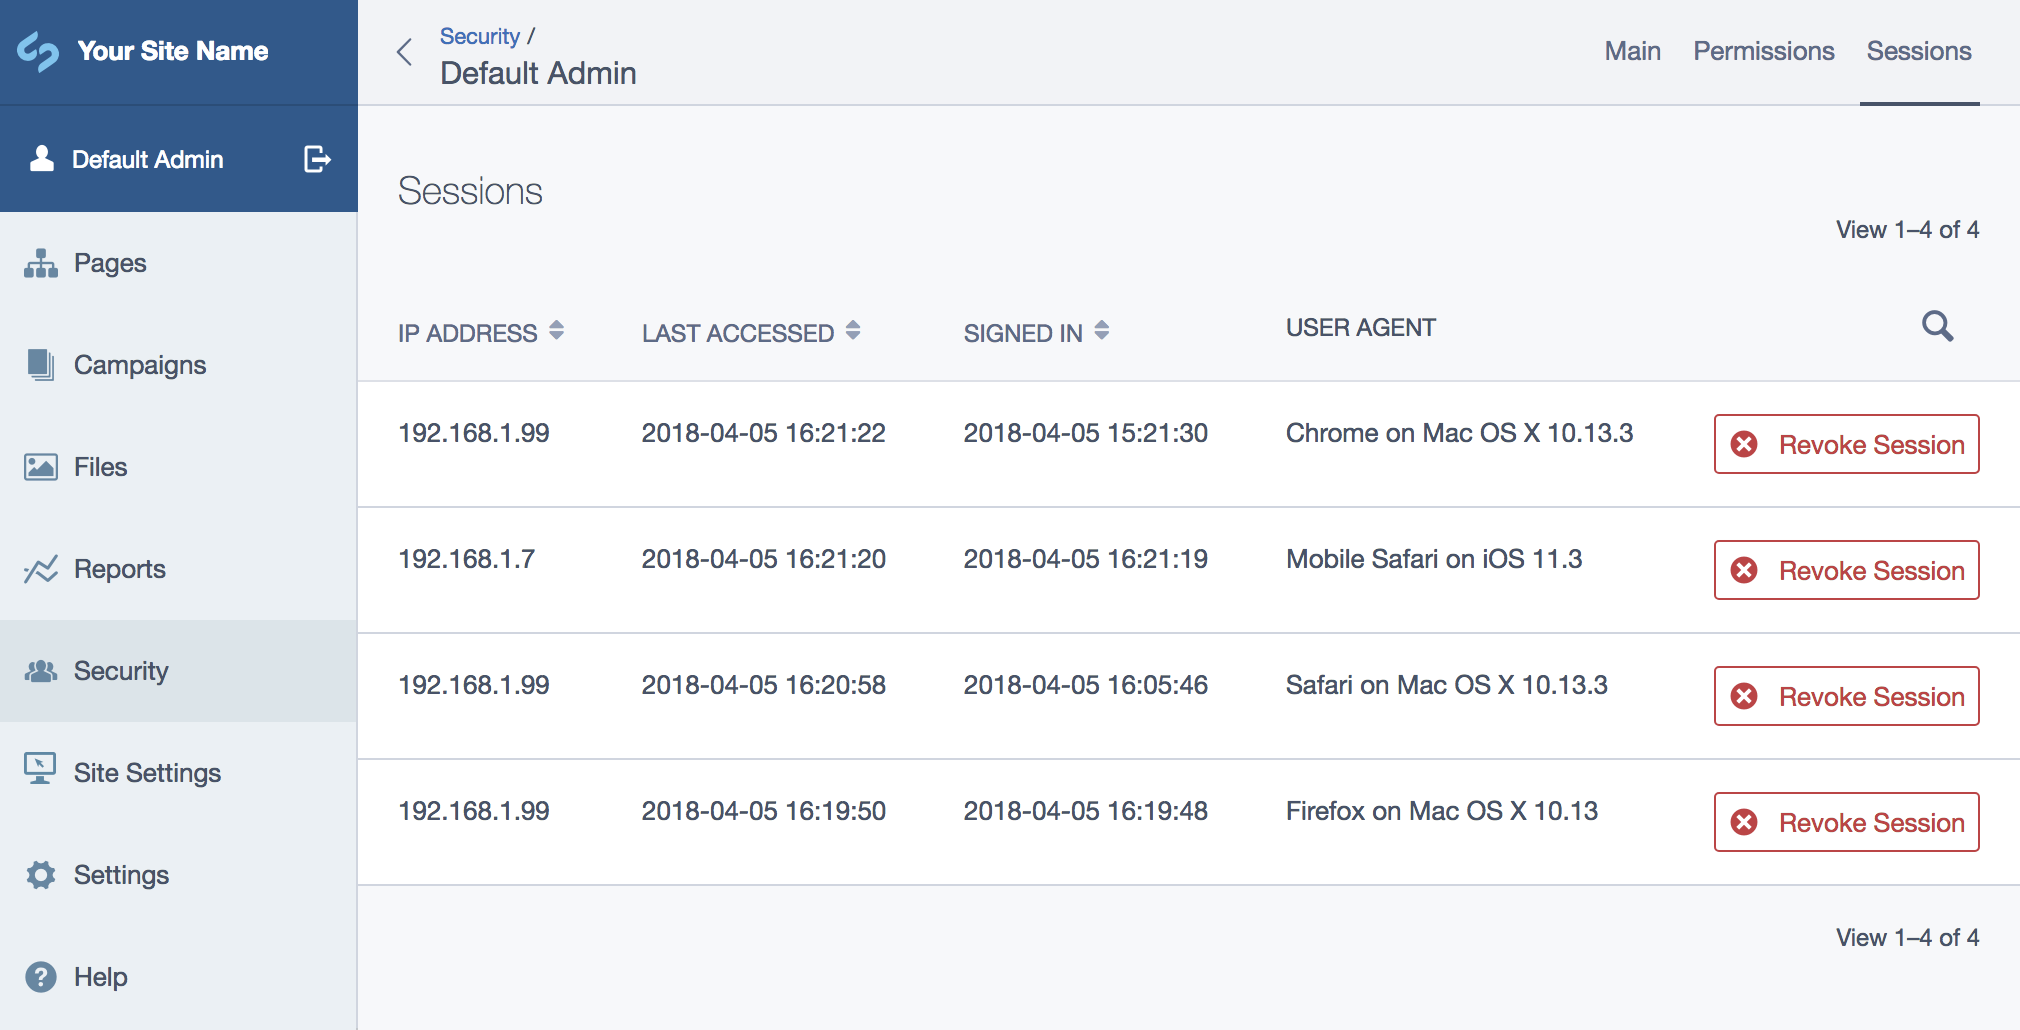
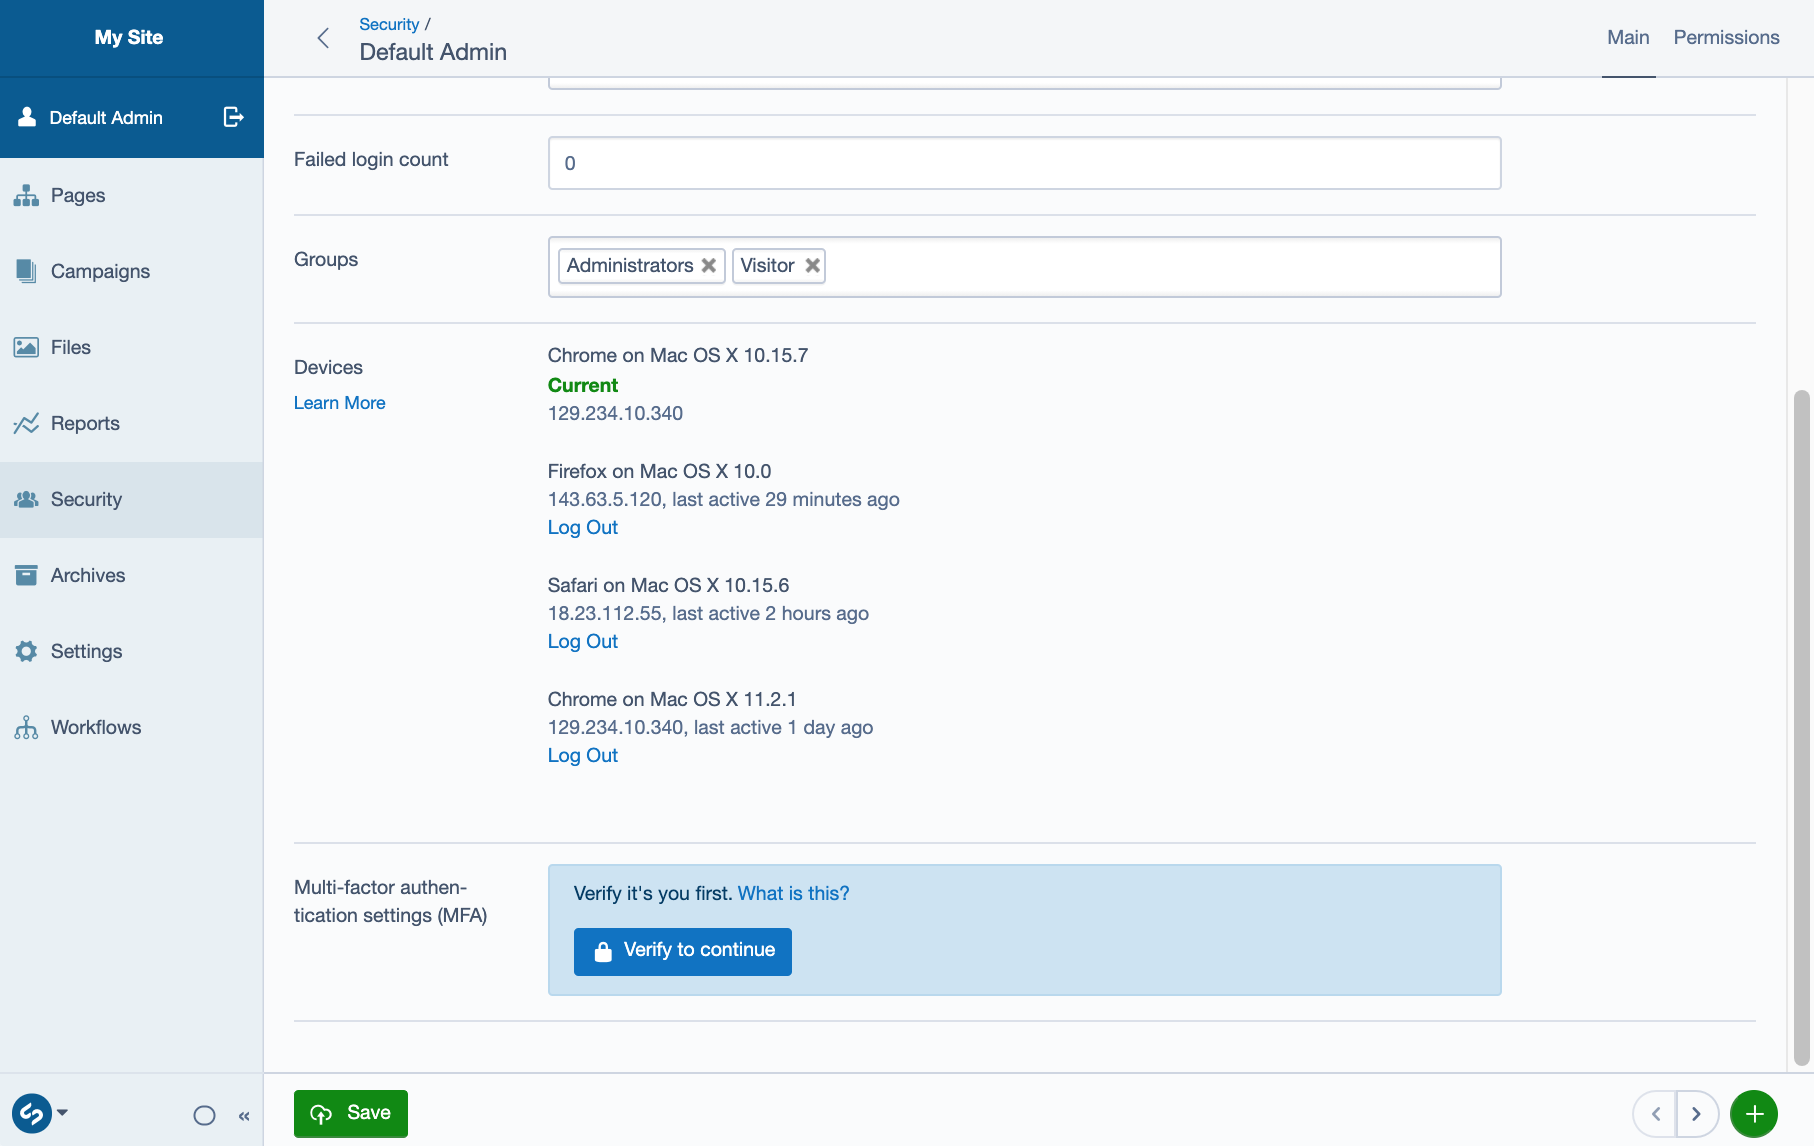
Render devices / sessions

diff --git a/client/src/legacy/SessionManagerFieldEntwine.js b/client/src/legacy/SessionManagerFieldEntwine.js
@@ -1,20 +1,46 @@
 // Manages rendering SessionManagerFields in lieu of React support in ModelAdmin
 import React from 'react';
 import ReactDOM from 'react-dom';
-import { loadComponent } from 'lib/Injector'; // eslint-disable-line
+import {loadComponent} from 'lib/Injector'; // eslint-disable-line
 
 const FIELD_SELECTOR = '.js-injector-boot [data-field-type="session-manager-field"]';
 
-window.jQuery.entwine('ss', ($) => {
-  $(FIELD_SELECTOR).entwine({
-    onmatch() {
-      const SessionManagerField = loadComponent('SessionManagerField');
-      // const { readOnly } = this.data('schema');
+function addLearnMoreLink() {
+    $('#title-Form_ItemEditForm_SessionManagerField').append(`
+<br/>
+<a
+href='https://github.com/silverstripe/silverstripe-session-manager'
+target="_blank"
+>
+    Learn More
+</a>
+`);
+}
 
-      ReactDOM.render(
-        <SessionManagerField />,
-        this[0]
-      );
-    }
-  });
+function injectReactSessionManagerField(field) {
+    const SessionManagerField = loadComponent('SessionManagerField');
+    const {
+        readOnly, schema: {
+            loginSessions
+        }
+    } = field.data('schema');
+
+    ReactDOM.render(
+        <SessionManagerField
+            loginSessions={loginSessions}
+        />,
+        field[0]
+    );
+}
+
+window.jQuery.entwine('ss', ($) => {
+    $(FIELD_SELECTOR).entwine({
+        onmatch() {
+            // add the learn more link
+            addLearnMoreLink();
+
+            // inject the react session manager field
+            injectReactSessionManagerField(this);
+        }
+    });
 });

diff --git a/client/src/components/LoginSession.js b/client/src/components/LoginSession.js
@@ -1,0 +1,29 @@
+function LoginSession(loginSession) {
+    let lastAccessedElapsed = moment.utc(loginSession.LastAccessed).fromNow();
+
+    return (
+        <div>
+            <div>{loginSession.UserAgent}</div>
+            {loginSession.IsCurrent && <strong className={"text-success"}>Current</strong>}
+            <div className="text-muted">
+                {loginSession.IPAddress}
+                {!loginSession.IsCurrent && ", last active " + lastAccessedElapsed}
+            </div>
+            {!loginSession.IsCurrent && <a href={"#"}>Log Out</a>}
+        </div>
+    );
+}
+
+const LoginSessionShape = PropTypes.shape({
+    ID: PropTypes.number,
+    IPAddress: PropTypes.string,
+    IsCurrent: PropTypes.bool,
+    UserAgent: PropTypes.string,
+    Persistent: PropTypes.number,
+    Member: PropTypes.object,
+    LastAccessed: PropTypes.string,
+});
+
+export default LoginSession;
+
+export {LoginSessionShape};

diff --git a/client/src/components/SessionManagerField.js b/client/src/components/SessionManagerField.js
@@ -1,20 +1,23 @@
 /* global window */
-import React, { Component } from 'react';
+import React, {Component} from 'react';
+import LoginSession, {LoginSessionShape} from './LoginSession';
 
 class SessionManagerField extends Component {
-  render() {
-    return (
-      <div>
-        <p>hello world</p>
-      </div>
-    );
-  }
+    render() {
+        return (
+            <div className={'SessionManagerField'}>
+                {this.props.loginSessions.map(function (loginSession, index) {
+                    return <LoginSession key={loginSession.ID} {...loginSession}/>;
+                })}
+            </div>
+        );
+    }
 }
 
 SessionManagerField.propTypes = {
+    loginSessions: PropTypes.arrayOf(LoginSessionShape),
 };
 
-SessionManagerField.defaultProps = {
-};
+SessionManagerField.defaultProps = {};
 
 export default SessionManagerField;

diff --git a/client/src/components/SessionManagerField.scss b/client/src/components/SessionManagerField.scss
@@ -1,0 +1,3 @@
+.SessionManagerField > div:not(:last-child) {
+    margin-bottom: 20px;
+}

diff --git a/src/Model/LoginSession.php b/src/Model/LoginSession.php
@@ -2,15 +2,29 @@
 
 namespace SilverStripe\SessionManager\Model;
 
+use SilverStripe\Control\Controller;
 use SilverStripe\Control\HTTPRequest;
+use SilverStripe\Control\Session;
+use SilverStripe\Core\Injector\Injector;
 use SilverStripe\ORM\DataObject;
 use SilverStripe\ORM\FieldType\DBDatetime;
 use SilverStripe\Security\Member;
 use SilverStripe\Security\Permission;
 use SilverStripe\Security\RememberLoginHash;
 use SilverStripe\Security\Security;
+use SilverStripe\SessionManager\Security\LogInAuthenticationHandler;
 use UAParser\Parser;
 
+/**
+ * Class LoginSession
+ * @package SilverStripe\SessionManager\Model
+ *
+ * @property DBDatetime $LastAccessed
+ * @property string $IPAddress
+ * @property string $UserAgent
+ * @property bool $Persistent
+ * @method Member Member
+ */
 class LoginSession extends DataObject
 {
     private static $db = [
@@ -174,5 +188,75 @@ class LoginSession extends DataObject
         $result = $parser->parse($this->UserAgent);
 
         return sprintf('%s on %s', $result->ua->family, $result->os->toString());
+    }
+
+    /**
+     * @param Member|null $member
+     * @param HTTPRequest|null $request
+     * @return LoginSession|null
+     */
+    public static function getCurrentLoginSession(Member $member = null, HTTPRequest $request = null)
+    {
+        if (!$member) {
+            $member = Security::getCurrentUser();
+        }
+
+        // Fall back to retrieving request from current Controller if available
+        if ($request === null) {
+            if (!Controller::has_curr()) {
+                throw new InvalidArgumentException(
+                    "A HTTPRequest is required to check if this is the currently used LoginSession."
+                );
+            }
+
+            $request = Controller::curr()->getRequest();
+        }
+
+        $loginHandler = Injector::inst()->get(LogInAuthenticationHandler::class);
+        $loginSessionID = $request->getSession()->get($loginHandler->getSessionVariable());
+        $loginSession = LoginSession::get()->byID($loginSessionID);
+        return $loginSession;
+    }
+
+    /**
+     * @param Member|null $member
+     * @param HTTPRequest|null $request
+     * @return static|null
+     */
+    public function isCurrent(Member $member = null, HTTPRequest $request = null)
+    {
+        $currentLoginSession = static::getCurrentLoginSession($member, $request);
+        if (!$currentLoginSession) {
+            return false;
+        }
+
+        return $this->ID === $currentLoginSession->ID;
+    }
+
+    /**
+     * @param Member $member
+     * @return mixed
+     */
+    public static function getCurrentSessions(Member $member)
+    {
+        $sessionLifetime = static::getSessionLifetime();
+        $maxAge = DBDatetime::now()->getTimestamp() - $sessionLifetime;
+        $currentSessions = $member->LoginSessions()->filterAny([
+            'Persistent' => 1,
+            'LastAccessed:GreaterThan' => date('Y-m-d H:i:s', $maxAge)
+        ]);
+        return $currentSessions;
+    }
+
+    /**
+     * @return int
+     */
+    public static function getSessionLifetime()
+    {
+        if ($lifetime = Session::config()->get('timeout')) {
+            return $lifetime;
+        }
+
+        return LoginSession::config()->get('default_session_lifetime');
     }
 }

diff --git a/src/FormField/SessionManagerField.php b/src/FormField/SessionManagerField.php
@@ -3,19 +3,23 @@
 namespace SilverStripe\SessionManager\FormField;
 
 use SilverStripe\Admin\SecurityAdmin;
+use SilverStripe\Core\Injector\Injector;
 use SilverStripe\Forms\FormField;
+use SilverStripe\MFA\Extension\MemberExtension;
+use SilverStripe\MFA\State\RegisteredMethodDetailsInterface;
 use SilverStripe\ORM\DataObject;
 use SilverStripe\Security\Member;
 use SilverStripe\Security\Security;
+use SilverStripe\SessionManager\Model\LoginSession;
 
 class SessionManagerField extends FormField
 {
     /**
      * {@inheritDoc}
      *
-     * @param string      $name  Field name
+     * @param string $name Field name
      * @param string|null $title Field title
-     * @param int         $value Member ID to apply this field to
+     * @param int $value Member ID to apply this field to
      */
     public function __construct(string $name, ?string $title, int $value)
     {
@@ -41,6 +45,34 @@ class SessionManagerField extends FormField
             $member = DataObject::get_by_id(Member::class, $this->value);
         }
 
-        return array_merge($defaults, []);
+        return array_merge($defaults, [
+            'schema' => [
+                'loginSessions' => $this->getLoginSessions($member)
+            ],
+        ]);
+    }
+
+    /**
+     * @param Member $member
+     * @return array
+     */
+    protected function getLoginSessions(Member $member)
+    {
+        $loginSessions = [];
+        /** @var LoginSession $loginSession */
+        foreach (LoginSession::getCurrentSessions($member) as $loginSession) {
+            $loginSessions[] = [
+                'ID' => $loginSession->ID,
+                'IPAddress' => $loginSession->IPAddress,
+                'UserAgent' => $loginSession->getFriendlyUserAgent(),
+                'IsCurrent' => $loginSession->isCurrent(),
+                'Persistent' => $loginSession->Persistent,
+                'Member' => [
+                    'Name' => $loginSession->Member()->Name
+                ],
+                'LastAccessed' => $loginSession->LastAccessed,
+            ];
+        }
+        return $loginSessions;
     }
 }

diff --git a/src/Extensions/MemberExtension.php b/src/Extensions/MemberExtension.php
@@ -30,29 +30,7 @@ class MemberExtension extends Extension implements PermissionProvider
      */
     public function updateCMSFields(FieldList $fields)
     {
-        # todo: remove start \\
-        $fields->removeByName('LoginSessions');
-
-        $sessionLifetime = $this->getSessionLifetime();
-        $maxAge = DBDatetime::now()->getTimestamp() - $sessionLifetime;
-        $currentSessions = $this->owner->LoginSessions()->filterAny([
-            'Persistent' => 1,
-            'LastAccessed:GreaterThan' => date('Y-m-d H:i:s', $maxAge)
-        ]);
-
-        $fields->addFieldToTab(
-            'Root.Sessions',
-            GridField::create(
-                'LoginSessions',
-                'Sessions',
-                $currentSessions,
-                GridFieldConfig_Base::create()
-                    ->addComponent(GridFieldRevokeLoginSessionAction::create())
-            )
-        );
-        # todo: remove end //
-
-        $fields->removeByName(['SessionManagerField']);
+        $fields->removeByName(['LoginSessions', 'SessionManagerField']);
 
         if (!$this->owner->exists() || !$this->currentUserCanViewSessions()) {
             return $fields;
@@ -62,7 +40,7 @@ class MemberExtension extends Extension implements PermissionProvider
             'Root.Main',
             $sessionManagerField = SessionManagerField::create(
                 'SessionManagerField',
-                _t(__CLASS__ . '.SESSION_MANAGER_SETTINGS_FIELD_LABEL', 'Session Manager Settings'),
+                _t(__CLASS__ . '.SESSION_MANAGER_SETTINGS_FIELD_LABEL', 'Devices'),
                 $this->owner->ID
             )
         );
@@ -72,18 +50,6 @@ class MemberExtension extends Extension implements PermissionProvider
         }
 
         return $fields;
-    }
-
-    /**
-     * @return int
-     */
-    protected function getSessionLifetime()
-    {
-        if ($lifetime = Session::config()->get('timeout')) {
-            return $lifetime;
-        }
-
-        return LoginSession::config()->get('default_session_lifetime');
     }
 
     /**

diff --git a/README.md b/README.md
@@ -8,11 +8,9 @@ Allow users to manage and revoke access to multiple login sessions across device
 [![Version](http://img.shields.io/packagist/v/silverstripe/session-manager.svg?style=flat)](https://packagist.org/packages/silverstripe/session-manager)
 [![License](http://img.shields.io/packagist/l/silverstripe/session-manager.svg?style=flat)](LICENSE)
 
-**This module is in development, and is not ready for use in production**
-
 ![CMS view](images/cms.png)
 
-## How it works
+## Developer Details
 
 The module introduces a new database record type: `LoginSession`.
 On first login, it creates a new record of this type, recording the IP and User-Agent,
@@ -92,9 +90,3 @@ Alternatively, you can create a system cron entry to run the `LoginSessionGarbag
 ```
 `*/5 * * * * /path/to/webroot/vendor/bin/sake dev/tasks/LoginSessionGarbageCollectionTask
 ```
-
-## To-do
-
-- Privacy warning (storing IP/User-Agent - GDPR)
-- More manual testing
-- Unit test coverage
